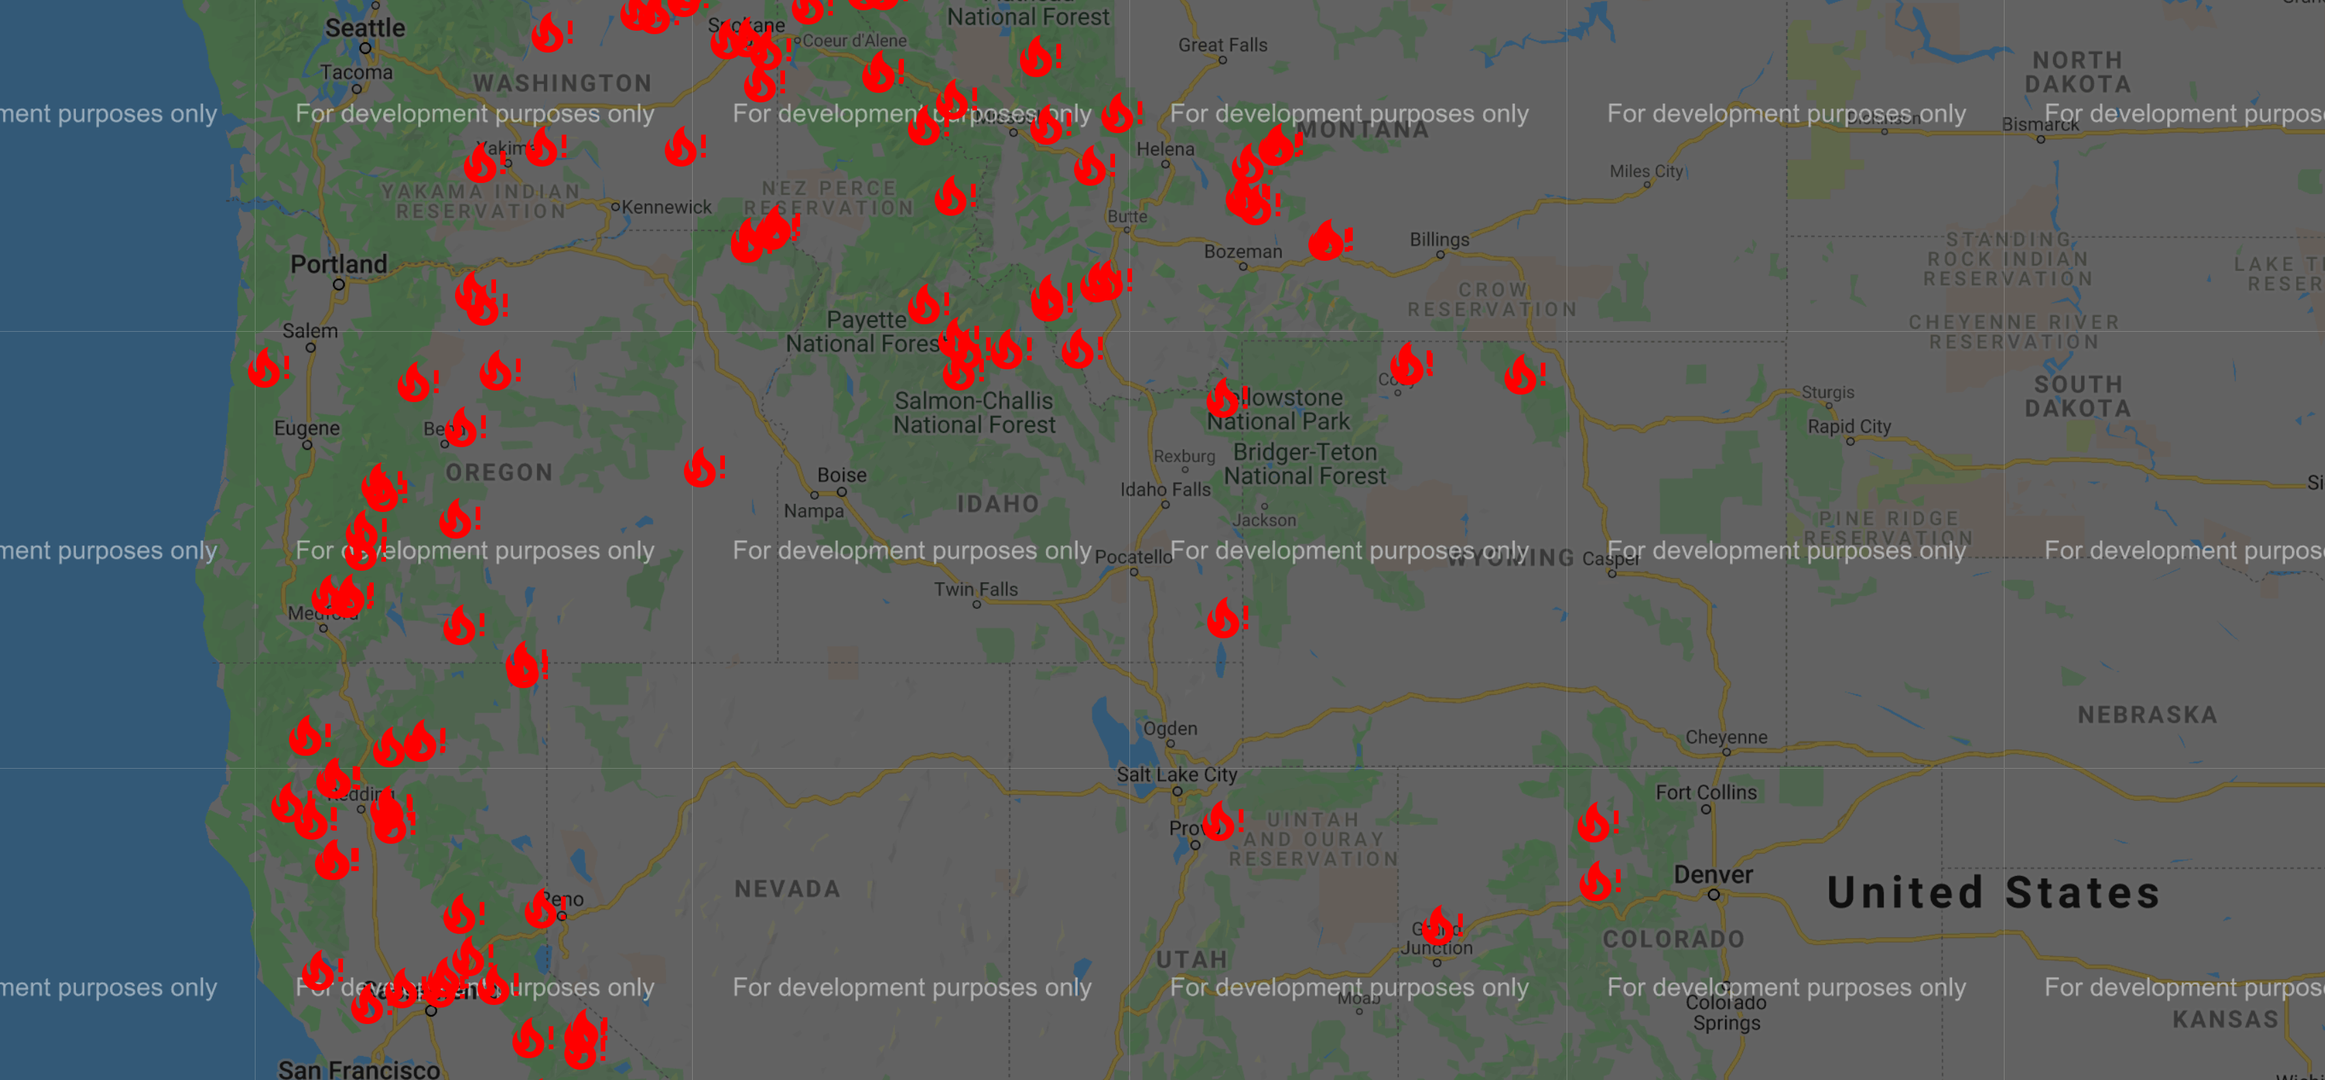
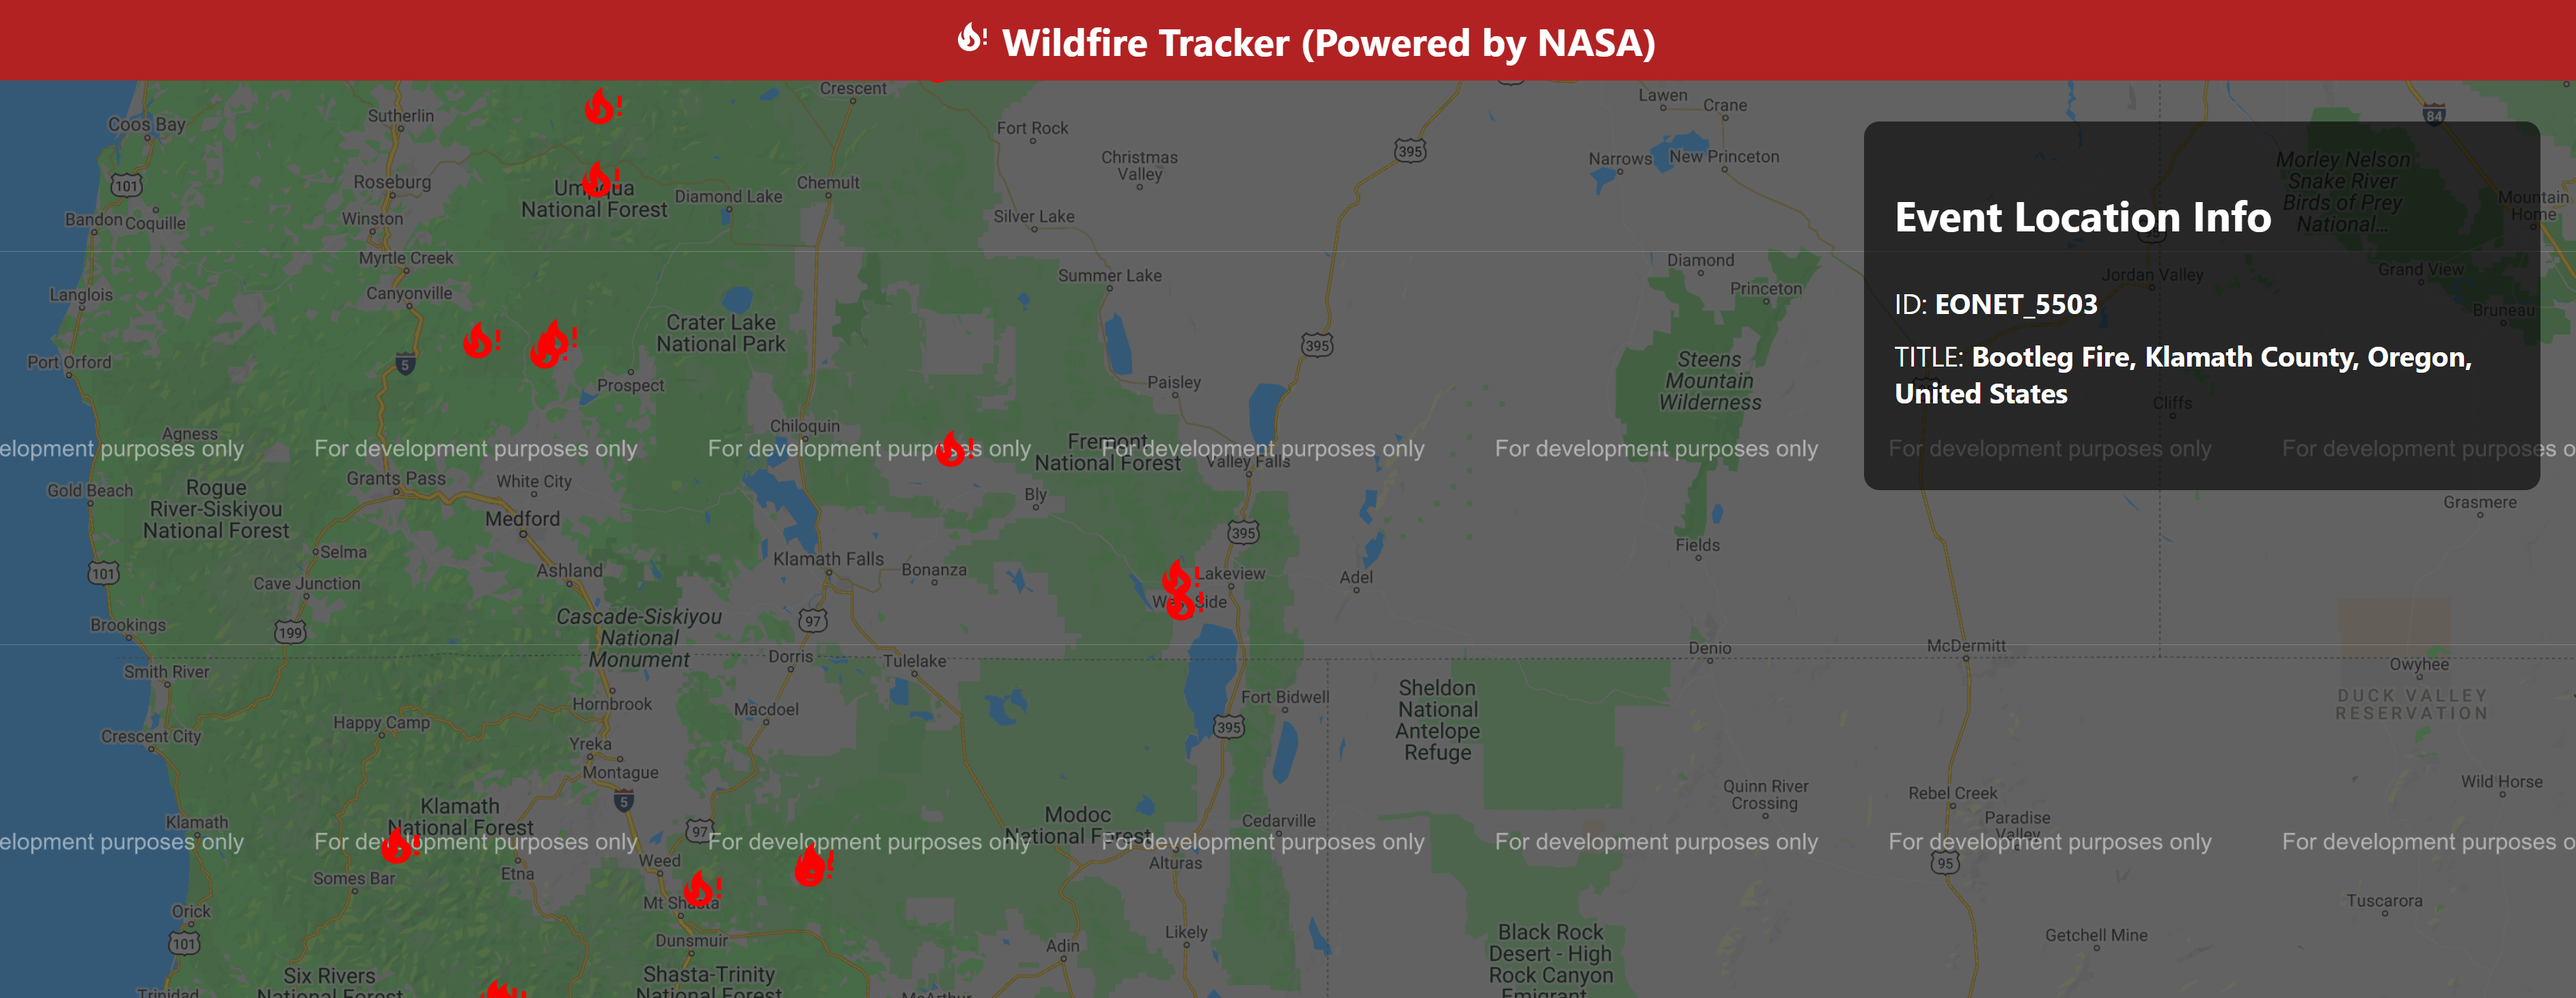
Click for Information
1. Added the functionality to click on a particular marker to get more information about that particular wildfire
2. Added a Header at the top of the page

diff --git a/src/components/Map.js b/src/components/Map.js
@@ -1,10 +1,15 @@
+import { useState } from 'react'
 import GoogleMapReact from 'google-map-react'
 import LocationMarker from './LocationMarker'
+import LocationInfoBox from './LocationInfoBox'
 
 const Map = ({ eventData, center, zoom }) => {
+    const [locationInfo, setLocationInfo] = useState(null)
+
     const markers = eventData.map(ev => {
         if(ev.categories[0].id === 8) {
-            return <LocationMarker lat={ev.geometries[0].coordinates[1]} lng={ev.geometries[0].coordinates[0]} />
+            return <LocationMarker lat={ev.geometries[0].coordinates[1]} lng={ev.geometries[0].coordinates[0]} 
+            onClick={() => setLocationInfo({ id: ev.id, title: ev.title })}/>
         }
         return null
     })
@@ -18,6 +23,7 @@ const Map = ({ eventData, center, zoom }) => {
             >
                 {markers}
             </GoogleMapReact>
+            {locationInfo && <LocationInfoBox info={locationInfo}/>}
         </div>
     )
 }

diff --git a/src/index.css b/src/index.css
@@ -3,6 +3,25 @@ body {
   font-family: -apple-system, BlinkMacSystemFont, 'Segoe UI', 'Roboto', 'Oxygen',
     'Ubuntu', 'Cantarell', 'Fira Sans', 'Droid Sans', 'Helvetica Neue',
     sans-serif;
+    overflow: hidden;
+}
+
+.header {
+  padding: 10px;
+  background-color: firebrick;
+  color: #fff;
+  position: fixed;
+  top: 0;
+  right: 0;
+  left: 0;
+  z-index: 100;
+}
+
+.header h1 {
+  font-size: 25px;
+  padding: 0;
+  margin: 0;
+  text-align: center;
 }
 
 .map {
@@ -30,4 +49,26 @@ body {
 
 .loader h1 {
   margin-top: -100px;
+}
+
+.location-info {
+  position: absolute;
+  top: 80px;
+  right: 50px;
+  width: 400px;
+  min-height: 200px;
+  padding: 20px;
+  background-color: rgba(0,0,0,0.6);
+  border-radius: 10px;
+  font-size: 18px;
+  color: #fff;
+}
+
+.location-info ul {
+  list-style-type: none;
+  padding: 0;
+}
+
+.location-info li {
+  padding: 5px 0;
 }

diff --git a/src/App.js b/src/App.js
@@ -1,6 +1,7 @@
 import { useState, useEffect } from "react";
 import Map from "./components/Map";
 import Loader from "./components/Loader"
+import Header from "./components/Header";
 
 function App() {
   const [eventData, setEventData] = useState([])
@@ -22,6 +23,7 @@ function App() {
 
   return (
     <div>
+      <Header />
       { !loading ? <Map eventData={eventData} /> : <Loader />}
     </div>
   );

diff --git a/src/components/LocationInfoBox.js b/src/components/LocationInfoBox.js
@@ -1,0 +1,13 @@
+const LocationInfoBox = ({ info }) => {
+    return (
+        <div className="location-info">
+            <h2>Event Location Info</h2>
+            <ul>
+                <li>ID: <strong>{ info.id }</strong></li>
+                <li>TITLE: <strong>{ info.title }</strong></li>
+            </ul>
+        </div>
+    )
+}
+
+export default LocationInfoBox

diff --git a/src/components/Header.js b/src/components/Header.js
@@ -1,0 +1,13 @@
+import React from 'react'
+import { Icon } from '@iconify/react'
+import locationIcon from '@iconify/icons-mdi/fire-alert'
+
+const Header = () => {
+    return (
+        <header className="header">
+            <h1><Icon icon={locationIcon} /> Wildfire Tracker (Powered by NASA)</h1>
+        </header>
+    )
+}
+
+export default Header

diff --git a/README.md b/README.md
@@ -12,6 +12,8 @@ npm install
 npm start
 ```
 
+![Screenshot](https://github.com/amitesh080295/wildfire-tracker/blob/main/public/demo.PNG)
+
 # API Keys
 
 In order to use the application, you will need to add your own Google Maps Javascript API Key. If you are simply exploring, no API key is required for the NASA Open API but for intensive use you need to register for the NASA API Key at https://api.nasa.gov. 
